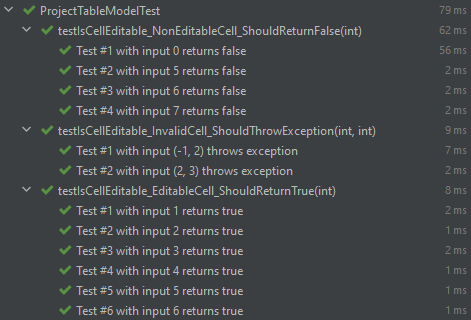
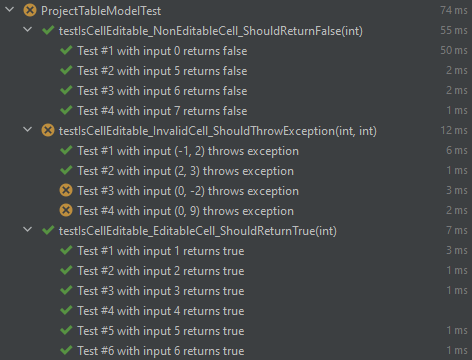
Report fixes

diff --git a/src/test/java/de/dominik_geyer/jtimesched/project/ProjectTest.java b/src/test/java/de/dominik_geyer/jtimesched/project/ProjectTest.java
@@ -22,7 +22,7 @@ public class ProjectTest {
             // Project should be running after it is started
             Assertions.assertTrue(prj.isRunning());
             // Checking that the project start date has been set during the running test
-            Assertions.assertTrue(Math.abs(beforeStart.getTime() - prj.getTimeStart().getTime()) < 1000, "Dates aren't close enough to each other!");
+            Assertions.assertTrue(Math.abs(beforeStart.getTime() - prj.getTimeStart().getTime()) < 1000, "Times aren't close enough to each other!");
         }
 
         @Test

diff --git a/assignments/assignment2.md b/assignments/assignment2.md
@@ -61,7 +61,7 @@ public void testStart_IdleProject_ShouldStart() throws ProjectException {
    // Project should be running after it is started
    Assertions.assertTrue(prj.isRunning());
    // Checking that the project start date has been set during the running test
-   Assertions.assertTrue(Math.abs(beforeStart.getTime() - prj.getTimeStart().getTime()) < 1000, "Dates aren't close enough to each other!");
+   Assertions.assertTrue(Math.abs(beforeStart.getTime() - prj.getTimeStart().getTime()) < 1000, "Times aren't close enough to each other!");
 }
 ```
 
@@ -87,35 +87,36 @@ All the tests above passed successfully, as expected.
 
 #### Description
 
-This function of the `Project` class is called whenever the user edits the `Time Today` table field, adjusting the value from the `Time Overall` accordingly. This method tests the variations from the input values in comparison to the previously stored ones and makes the necessary adjustments to update the table
+This function of the `Project` class is called whenever the user edits the `Time Today` table field, arising the need to adjust the value from the `Time Overall` variable accordingly.
+This method evaluates the variations from the input values in comparison to the previously stored ones and makes the necessary adjustments to update the time variables.
 
 #### *Category-Partition* algorithm
 
-1. This methods has only one parameter:
+1. This method has only one parameter:
    - `secondsToday`: an int representing the provided seconds in the table field.
 1. For each parameter we define the characteristics as:
    - `secondsToday`: corresponds to the amount of seconds of the user input variable
 1. The number of characteristics and parameters is not too large in this case, so we don't need to be defining testable combinations of features.
-   *Constraints*: the `secondsToday` variable must be an integer
-   Even in the case of the only restiction being integer values, several combinations of values must be tested, such as a negative input from the seconds and different combinations the `secondsToday` parameter being smaller or larger than the previous value of the `secondsToday` variable.
+   *Constraints*: negative values for the variable `secondsToday` are not allowed.
+   Several combinations of values must be tested, such as a negative input from the seconds and different combinations the `secondsToday` parameter being smaller or larger than the previous value of the `secondsToday` variable.
 1. After thinking about the possible categories of inputs, we get the following tests:
-   - `secondsToday` is larger than previous value
-   - `secondsToday` is lower than previous value 
-   - `secondsToday` is negative
-   
+   - `secondsToday` input is larger than its previous value
+   - `secondsToday` input is smaller than its previous value 
+   - `secondsToday` input is negative
+
 #### Unit Tests
 
 The tests implemented for this function can be found in the `ProjectTest.java` file, inside the test directory. We decided to create three test methods for different input values of the `secondsToday` parameter.
 
-All tests have the follwing steps:
-1. Creating a new `Project` variable.
-1. Setting the project's `secondsToday` and `secondsOverall` variables to a specificic value
+All tests have the following steps:
+1. Creating a new `Project` variable
+1. Setting the project's `secondsToday` and `secondsOverall` variables to a specific value
 1. Calling the `adjustSecondsToday` method with a specific value in its argument
-1. Veryfing the final values for the `secondsToday` and `secondsOverall` variables after the method has been called, expecting a predetermined output using the `assertEquals` method from the `junit` library
+1. Verifying the final values for the `secondsToday` and `secondsOverall` variables after the method has been called, expecting a predetermined output using the `assertEquals` method
 
 The tests only differ on the values provided for the steps 2 and 3.
 
-In the first case, the value initially set on the `secondsToday` variable before the method call is lower than the one afterwards. This results in an increased expected output of the `secondsOverall` variable after the method call.
+In the first case, the value initially set on the `secondsToday` variable before the method call is smaller than the one afterwards. This results in an increased expected output of the `secondsOverall` variable after the method call.
 
 ```java
 @Test
@@ -144,7 +145,7 @@ public void testAdjustSecondsToday_SmallerInput_ShouldReduceOverallTime() {
 }
 ```
 
-In the third and last case, the value initially set on the `secondsToday` variable is arbitrary and the one provided in the method call is negative. Given the provided parameter is negative, it is parsed as 0 and the method updates the `secondsToday`and `secondsOverall` not considering the variations provided by the method. 
+In the third and last case, the value initially set on the `secondsToday` variable is 10 and the one provided in the method call is negative. Given the provided parameter is negative, it is parsed as zero and the method updates the `secondsToday`and `secondsOverall` considering this value and not the negative one.
 
 ```java
 @Test
@@ -255,12 +256,12 @@ This function of the `isCellEditable` class is called when the user edits any co
 
 #### *Category-Partition* algorithm
 
-1. This method has 2 parameters
-   - row: an integer value to select the table row to edit. This effectively selects which project the user wants to edit. 
-   - column: and integer value to select the table column to edit. This effectively selects which value of the project the user whiches to edit   
+1. This method has two parameters:
+   - `row`: an integer value to select the table row to edit. This effectively selects which project the user wants to edit.
+   - `column`: an integer value to select the table column to edit. This effectively selects which value of the project the user wishes to edit.
 1. For each parameter we define the characteristics as:
-   - row: must be an integer value lower or equal to the amount of existing projects. 
-   - column: must be an integer value from 0 to 7, representing the project column the user wishes to edit.
+   - `row`: must be an integer value lower or equal to the amount of existing projects. 
+   - `column`: must be an integer value from 0 to 7, representing the project column the user wishes to edit.
    
    It represents the following constants:
    ```java
@@ -275,33 +276,23 @@ This function of the `isCellEditable` class is called when the user edits any co
    ``` 
 1. The number of characteristics and parameters is not too large in this case, so we don't need to be defining testable combinations of features.
    *Constraints*: 
-   - the integer `row` must be a non-negative value lower than the amount of existing projects
+   - the integer `row` must be a non-negative value lower than the number of existing projects
    - the integer `column` must be a value between 0 and 7, according to the clickable columns in the interface
    
 1. After thinking about the possible categories of inputs, we get the following tests:
-   - row
-      - Row value is 0, which means the first created project is selected
-      - allowed values for column
-         - ProjectTableModel.COLUMN_CHECK,
-         - ProjectTableModel.COLUMN_TITLE,
-         - ProjectTableModel.COLUMN_COLOR,
-         - ProjectTableModel.COLUMN_CREATED,
-         - ProjectTableModel.COLUMN_TIMEOVERALL,
-         - ProjectTableModel.COLUMN_TIMETODAY
-      - invalid values for column
-         - ProjectTableModel.COLUMN_ACTION_DELETE,
-         - ProjectTableModel.COLUMN_TIMEOVERALL,
-         - ProjectTableModel.COLUMN_TIMETODAY,
-         - ProjectTableModel.COLUMN_ACTION_STARTPAUSE
+   - valid `row` value (corresponding to a given project) and `column` value that corresponds to an editable column
+   - valid `row` value (corresponding to a given project), but `column` value corresponds to a non-editable column
+   - invalid `row` value (negative or higher or equal to the number of existing projects)
+   - invalid `column` value (negative or higher than 7, which is the last column)
 
 #### Unit Tests
 
 The tests implemented for this function can be found in the `ProjectTableModelTest.java` file, inside the `test` directory.
-We decided to create three test methods, the first two related to allowed and prohibited cells to edit, respectively, and the last one to exceptions raised for out of bounds and illegal inputs.
+We decided to create three test methods, the first two related to allowed and prohibited cells to edit, respectively, and the last one to exceptions raised for out-of-bounds and illegal inputs.
 
-The first two tests use `@ParameterizedTest` with a `@ValueSource` list of values for the `columns` variable. In these cases, the `row` value is equal to 0, as we are creating a single project and checking the fields for that single project as an example.
+The first two tests use `@ParameterizedTest` with a `@ValueSource` list of values for the `columns` variable. In these cases, the `row` value is equal to zero, as we are creating a single project and checking the fields for that single project as an example.
 
-The third case uses `@ParameterizedTest` with `@CsvSource` lists of `row` and `columns`combinations of values to check for invalid inputs.
+The third case uses `@ParameterizedTest` with `@CsvSource` lists of `row` and `columns` combinations of values to check for invalid inputs.
 
 In the first case, the test just instantiates a `Project` and checks if all fields allowed to be edited return true when the `isEditable` method is called upon the project.
 
@@ -350,11 +341,11 @@ public void testIsCellEditable_NonEditableCell_ShouldReturnFalse(int column) thr
 }
 ```
 
-The third and last case includes the situations in which exceptions are expected to be thrown. There are several combinations explored, such as negative `rows` and `columns` as well as values out of the allowed bounds, such as a `row` value for an inexisting project and a `column` value for field that doesn't exist.
+The third and last case includes the situations in which exceptions are expected to be thrown. There are several combinations explored, such as negative `rows` and `columns` as well as values out of the allowed bounds, such as a `row` value for a non-existent project and a `column` value for field that doesn't exist.
 
 ```java
 @ParameterizedTest(name = "Test #{index} with input ({arguments}) throws exception")
- @CsvSource(value = {"-1,2", "2,3", "0,-2", "0,9"})
+@CsvSource(value = {"-1,2", "2,3", "0,-2", "0,9"})
 public void testIsCellEditable_InvalidCell_ShouldThrowException(int row, int column) {
    Project proj1 = new Project("Test Project");
    ArrayList<Project> projects = new ArrayList<>();
@@ -366,9 +357,8 @@ public void testIsCellEditable_InvalidCell_ShouldThrowException(int row, int col
 }
 ```
 
-The first two cases' tests all succeed, but there are two tests in the final case that fail. This occurs because there is no verification for the `column` value being out of bounds, given the author just assumes that this case never happens, since there are only seven clickable columns. However, if a future feature allows manual insertion of a `column` value in the terminal, or a new column is added, an error might occur. Therefore, this test was made to prevent future errors from being created, and we recommend handling these cases in the source code.
+The first two cases' tests succeed, but there are two tests in the final case that fail. This occurs because there is no verification for the `column` value being out of bounds, given the author just assumes that this case never happens, since there are only seven clickable columns. However, if a future feature allows manual insertion of a `column` value in the terminal, or a new column is added, an error might occur. Therefore, this test was made to prevent future errors from being created, and we recommend handling these cases in the source code.
 
-// TODO: Change png
 ![12 tests from `isCellEditable` pass successfully, 2 fail](./images/cp_tests4.png)
 
 ### 5) `public void writeXml(List<Project> projects) throws TransformerConfigurationException, SAXException, IOException`
